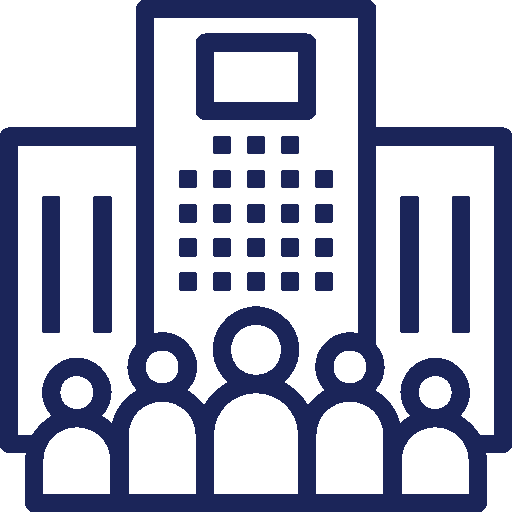
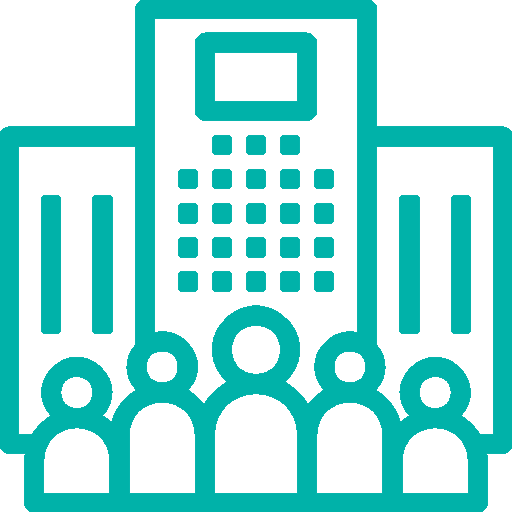
style: change colors

diff --git a/src/app/modules/auth/pages/sign-in/sign-in.component.scss b/src/app/modules/auth/pages/sign-in/sign-in.component.scss
@@ -32,7 +32,7 @@
         font-weight: bold;
         font-size: 25px;
         font-style: normal;
-        color: #1B2559;
+        color: #FF6F61;
         letter-spacing: 1px;
         margin-bottom: 3%;
     }
@@ -56,7 +56,7 @@
         cursor: pointer;
         box-shadow: 0 2px 4px rgba(0, 0, 0, 0.1);
         transition: background-color 0.3s ease;
-        color: #1B2559;
+        color: #718096;
         font-family: "Plus Jakarta Sans", sans-serif;
         font-weight: 600;
     }
@@ -104,7 +104,7 @@
     }
 
     mat-icon {
-        color: #1B2559;
+        color: #00B2A9;
     }
 
     .submit-btn {
@@ -112,7 +112,7 @@
         align-items: center;
         justify-content: center;
         padding: 6% 0%;
-        background-color: #1B2559;
+        background-color: #00B2A9;
         border: 1px solid #ccc;
         border-radius: 8px;
         font-size: 16px;
@@ -141,7 +141,7 @@
         margin: auto;
         font-size: 12px;
         font-style: normal;
-        color: #603CFF;
+        color: #FF6F61;
         text-align: right;
         text-decoration: underline;
         cursor: pointer;
@@ -151,11 +151,11 @@
         text-align: center;
         font-size: 12px;
         font-style: normal;
-        color: #1B2559;
+        color: #718096;
         margin-bottom: 3%;
 
         span {
-            color: #603CFF;
+            color: #FF6F61;
             font-weight: 500;
             cursor: pointer;
         }
@@ -181,10 +181,10 @@
 
 .mat-mdc-checkbox {
     --mdc-checkbox-selected-checkmark-color: #ffffff;
-    --mdc-checkbox-selected-icon-color: #1B2559;
-    --mdc-checkbox-selected-focus-icon-color: #1B2559;
-    --mdc-checkbox-selected-hover-icon-color: #1B2559;
-    --mdc-checkbox-selected-pressed-icon-color: #1B2559;
+    --mdc-checkbox-selected-icon-color: #FF6F61;
+    --mdc-checkbox-selected-focus-icon-color: #FF6F61;
+    --mdc-checkbox-selected-hover-icon-color: #FF6F61;
+    --mdc-checkbox-selected-pressed-icon-color: #FF6F61;
     --mdc-checkbox-state-layer-size: 0;
     --mdc-checkbox-unselected-focus-state-layer-opacity: 0;
 
@@ -194,7 +194,7 @@
                 --mdc-checkbox-disabled-selected-icon-color: transparent;
 
                 .mdc-checkbox__checkmark {
-                    color: #1B2559;
+                    color: #FF6F61;
                 }
             }
         }
@@ -202,7 +202,7 @@
 
     .mdc-checkbox {
         .mdc-checkbox__background {
-            color: #1B2559;
+            color: #FF6F61;
         }
     }
 
@@ -214,6 +214,6 @@
 ::ng-deep .mdc-label {
     font-size: 12px;
     font-style: normal;
-    color: #1B2559;
+    color: #718096;
     letter-spacing: 1px;
 }

diff --git a/src/app/modules/auth/pages/sign-up/sign-up.component.scss b/src/app/modules/auth/pages/sign-up/sign-up.component.scss
@@ -32,14 +32,12 @@
         font-weight: bold;
         font-size: 25px;
         font-style: normal;
-        color: #1B2559;
+        color: #FF6F61;
         letter-spacing: 1px;
         margin-bottom: 3%;
     }
 
     .subtitle {
-        //font-family: "Plus Jakarta Sans", sans-serif;
-        //font-weight: 600;
         font-size: 12px;
         font-style: normal;
         color: #718096;
@@ -59,7 +57,7 @@
         justify-content: center;
         width: 40%;
         height: 25%;
-        border: 1px solid #1B2559;
+        border: 1px solid #00B2A9;
         background-color: white;
         border-radius: 8px;
         cursor: pointer;
@@ -74,7 +72,7 @@
         .account-text {
             font-size: 16px;
             font-weight: 500;
-            color: #1B2559;
+            color: #00B2A9;
         }
     }
 
@@ -84,8 +82,8 @@
         justify-content: center;
         width: 40%;
         height: 25%;
-        border: 1px solid #1B2559;
-        background-color: #1B2559;
+        border: 1px solid #00B2A9;
+        background-color: #00B2A9;
         border-radius: 8px;
         cursor: pointer;
         transition: box-shadow 0.3s ease;
@@ -103,6 +101,8 @@
         }
     }
 
+
+
     .account-button:hover {
         box-shadow: 0 4px 8px rgba(0, 0, 0, 0.1);
     }
@@ -111,21 +111,6 @@
         font-size: 48px;
         margin-bottom: 10px;
     }
-
-
-
-
-
-
-
-
-
-
-
-
-
-
-
 
 
     .google-login-btn {
@@ -140,7 +125,7 @@
         cursor: pointer;
         box-shadow: 0 2px 4px rgba(0, 0, 0, 0.1);
         transition: background-color 0.3s ease;
-        color: #1B2559;
+        color: #718096;
         font-family: "Plus Jakarta Sans", sans-serif;
         font-weight: 600;
     }
@@ -188,7 +173,7 @@
     }
 
     mat-icon {
-        color: #1B2559;
+        color: #00B2A9;
     }
 
     .submit-btn {
@@ -196,7 +181,7 @@
         align-items: center;
         justify-content: center;
         padding: 6% 0%;
-        background-color: #1B2559;
+        background-color: #00B2A9;
         border: 1px solid #ccc;
         border-radius: 8px;
         font-size: 16px;
@@ -235,11 +220,11 @@
         text-align: center;
         font-size: 12px;
         font-style: normal;
-        color: #1B2559;
+        color: #718096;
         margin-bottom: 3%;
 
         span {
-            color: #603CFF;
+            color: #FF6F61;
             font-weight: 500;
             cursor: pointer;
         }

diff --git a/src/app/modules/admin/components/sidebar/sidebar.component.scss b/src/app/modules/admin/components/sidebar/sidebar.component.scss
@@ -19,7 +19,7 @@
     width: 250px;
     display: flex;
     flex-direction: column;
-    background-color: #E1E2EB;
+    background-color: #D0D0D0;
 }
 
 .mat-drawer-content {
@@ -31,7 +31,6 @@
     display: flex;
     flex-direction: column;
     height: 88%;
-    color: yellow;
 }
 
 .option-sidenav mat-icon {
@@ -59,7 +58,7 @@
     flex-shrink: 0;
     width: 100%;
     z-index: 2;
-    background-color: #1B2559;
+    background-color: #00B2A9;
     color: white;
 
     display: flex;
@@ -84,20 +83,20 @@
 }
 
 :host ::ng-deep .mdc-list-item__primary-text {
-    color: #1B2559 !important
+    color: white !important
 }
 
 :host ::ng-deep .mdc-list-item__primary-text:hover {
-    color: #1B2559 !important;
+    color: white !important;
     text-decoration: underline;
 }
 
 :host ::ng-deep .mdc-list-item__primary-text:active {
-    color: #1B2559 !important;
+    color: white !important;
     text-decoration: underline;
 }
 
 :host ::ng-deep .mdc-list-item__primary-text:focus {
-    color: #1B2559 !important;
+    color: white !important;
     text-decoration: underline;
 }

diff --git a/src/app/modules/admin/components/sidebar/sidebar.component.html b/src/app/modules/admin/components/sidebar/sidebar.component.html
@@ -8,8 +8,6 @@
             <mat-list-item class="option-sidenav" routerLink="/admin/dashboard"> <mat-icon
                     class="material-icons-outlined">dashboard</mat-icon>
                 Dashboard</mat-list-item>
-            <mat-list-item class="option-sidenav" routerLink="/about">Dashboard 2</mat-list-item>
-            <mat-list-item class="option-sidenav" routerLink="/contact">Contacto</mat-list-item>
 
             <!-- Espacio flexible para empujar el botón hacia abajo -->
             <div class="spacer"></div>

diff --git a/src/app/modules/admin/pages/dashboard/dashboard.component.scss b/src/app/modules/admin/pages/dashboard/dashboard.component.scss
@@ -16,6 +16,7 @@
             align-items: center;
             text-align: center;
             justify-content: center;
+            color: #718096;
 
             .number-card {
                 font-size: 18px;
@@ -51,7 +52,7 @@
         white-space: nowrap;
 
         mat-icon {
-            color: #1B2559;
+            color: #00B2A9;
         }
     }
 
